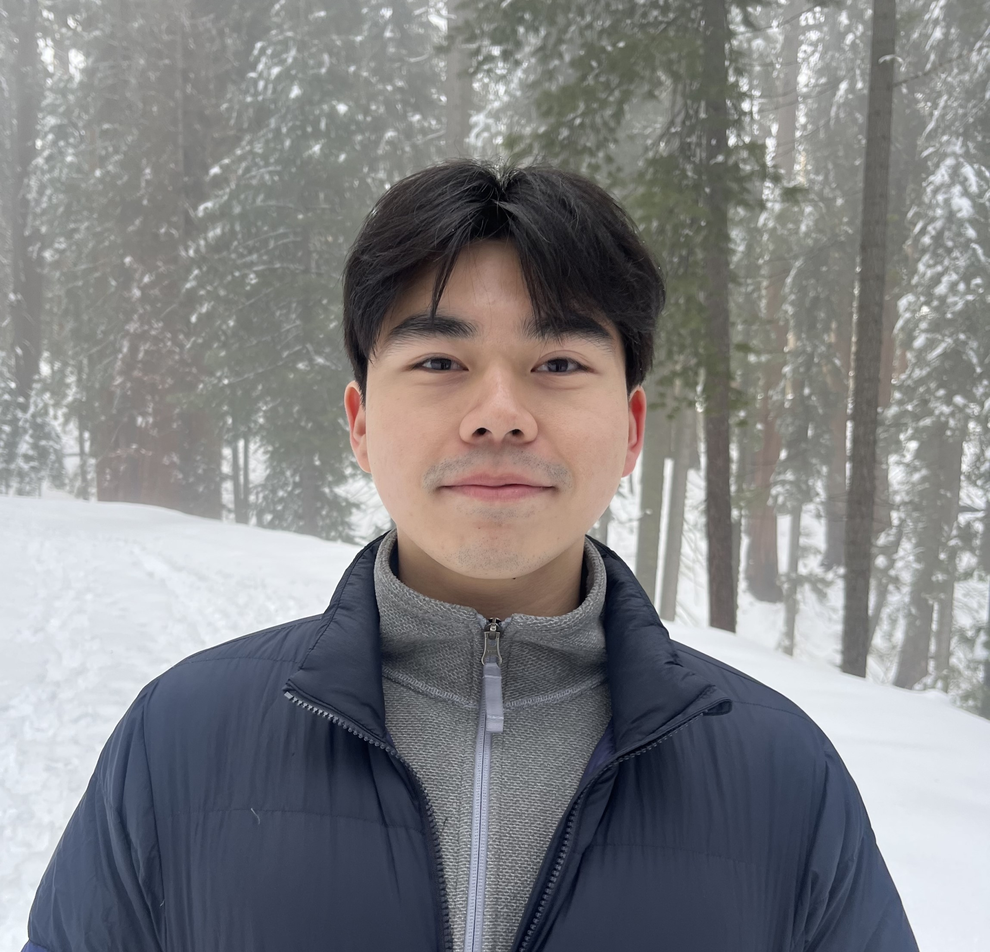
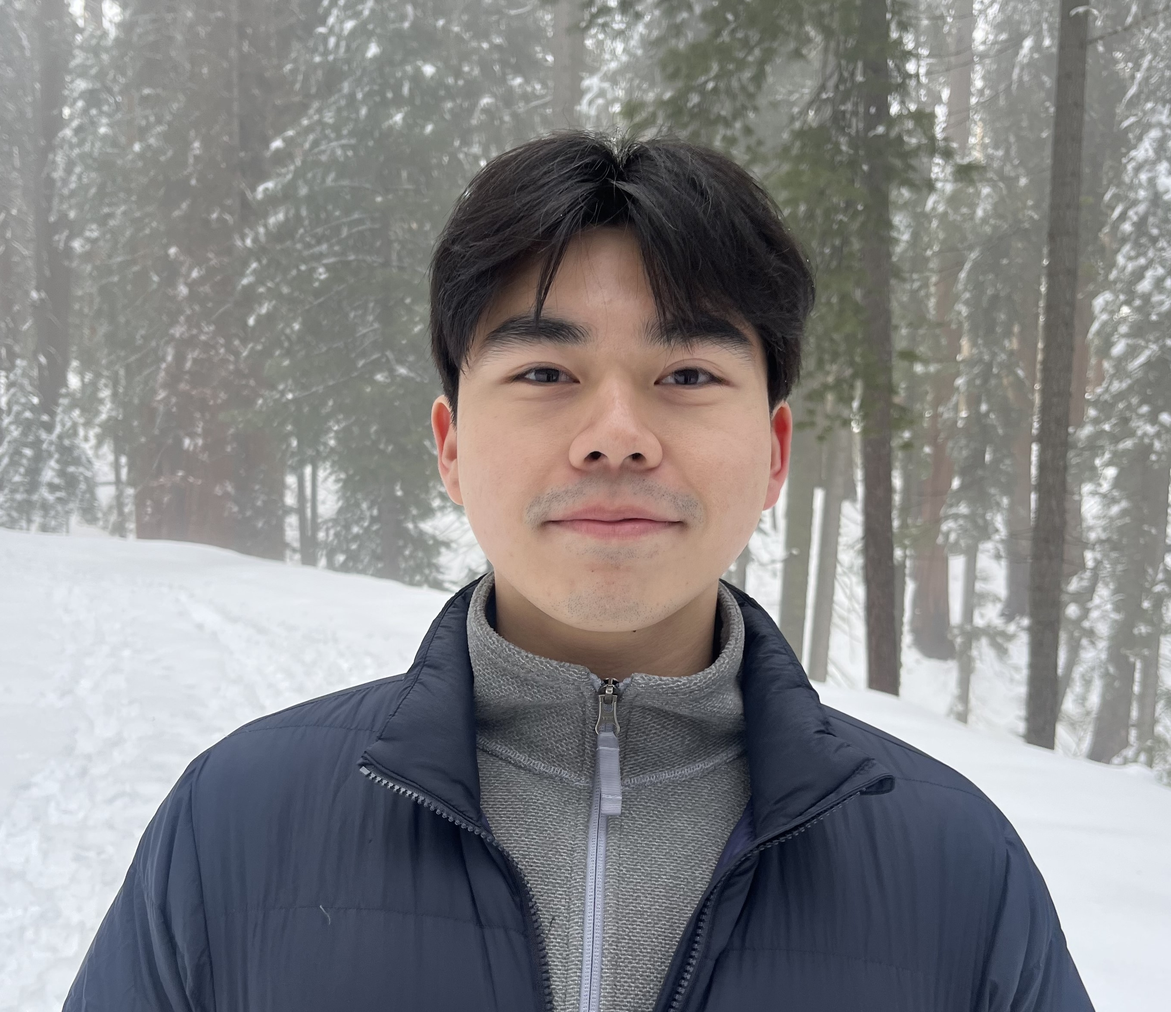
img change

diff --git a/index.html b/index.html
@@ -71,7 +71,7 @@
             </div>
             <span class="image main">
               <img
-                src="https://github.com/EarnestL/Portfolio_Website/blob/main/images/my-pic01.jpg?raw=true"
+                src="https://raw.githubusercontent.com/EarnestL/Portfolio_Website/main/images/my-pic03.jpg"
                 alt=""
               />
             </span>
